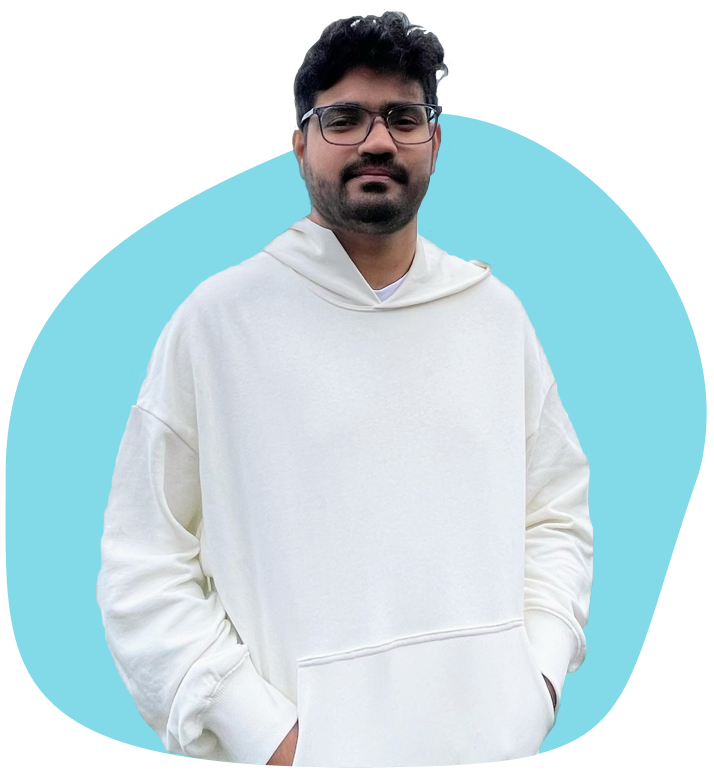
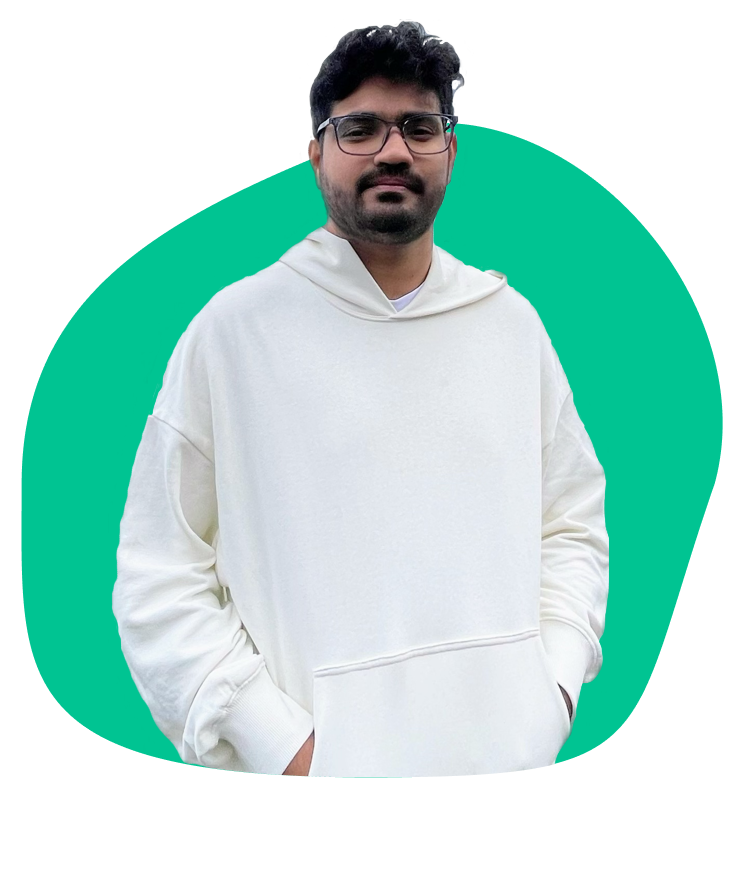
added green theme

diff --git a/app/home/About.tsx b/app/home/About.tsx
@@ -3,44 +3,38 @@ import GitHubIcon from "@/components/icons/Github";
 import LinkedInIcon from "@/components/icons/LinkedIn";
 import { MaxWidthContainer, FlexContainer } from "@/components/layouts/Containers";
 import { cn } from "@/utils/cn";
-import Image from "next/image";
 
 export function About() {
     return (
         <FlexContainer>
             <MaxWidthContainer>
-                <div className="grid md:grid-cols-2 md:grid-rows-5 grid-cols-1 gap-4 text-white h-full">
+                <div className="grid md:grid-cols-2 md:grid-rows-4 grid-cols-1 gap-4 text-white h-full">
                     <div className="row-span-4">
-                        <Box>
+                        <Box className="bg-white">
                             <img src="/images/saifil.png" alt="me" />
                         </Box>
                     </div>
-                    <div className="md:col-start-1 md;row-start-5">
-                        <Box>
-                            <div className="flex justify-center items-center h-full">
-                                Download Resume
-                            </div>
-                        </Box>
-                    </div>
-                    <div className="md:row-span-3 md:col-start-2 md:row-start-1">
-                        <Box>
-                            <p>
+                    <div className="md:row-span-2 md:col-start-2 md:row-start-1">
+                        <Box className="bg-primary-light">
+                            <p className="text-sm text-primary-dark">
                                 Hi, I am Saifil, A Front-end developer based in Toronto. I have 4 years of experience working with start-ups, building and delivering quality web products built in JavaScript and Frameworks like React and Angular. I love trying out new things and am constantly learning. Apart from my work, I love playing chess and ping pong and hold an interest in sustainable development, especially in the space of architecture.
                             </p>
                         </Box>
                     </div>
-                    <div className="md:row-span-2 md:col-start-2 md:row-start-4">
-                        <Box className="bg-orange-500">
-                            <div className='flex justify-center items-center gap-5 flex-col h-full'>
-                                <p className="font-bold text-xl">Saifil Momin</p>
-                                <a className="underline text-cyan-400" href="mailto:saifilmomin4@gmail.com">saifilmomin4@gmail.com</a>
-                                <div className='flex justify-center gap-3'>
-                                    <a target="blank" href="https://github.com/saifil4/">
-                                        <GitHubIcon size={24} color='white' />
-                                    </a>
-                                    <a href="https://www.linkedin.com/in/saifil-momin/">
-                                        <LinkedInIcon size={24} color='white' />
-                                    </a>
+                    <div className="md:row-span-2 md:col-start-2 md:row-start-3">
+                        <Box className="bg-primary-light ">
+                            <div className="bg-slate-50 rounded-lg p-3 h-full">
+                                <div className='flex justify-center items-center gap-5 flex-col h-full text-primary-dark'>
+                                    <p className="font-bold text-xl">Saifil Momin</p>
+                                    <a className="underline" href="mailto:saifilmomin4@gmail.com">saifilmomin4@gmail.com</a>
+                                    <div className='flex justify-center gap-3'>
+                                        <a target="blank" href="https://github.com/saifil4/">
+                                            <GitHubIcon size={24} color='white' />
+                                        </a>
+                                        <a href="https://www.linkedin.com/in/saifil-momin/">
+                                            <LinkedInIcon size={24} color='white' />
+                                        </a>
+                                    </div>
                                 </div>
                             </div>
                         </Box>
@@ -56,7 +50,7 @@ const Box = ({ children, className }: { children: React.ReactNode, className?: s
     return (
         <div className={
             cn(
-                "rounded-xl md:m-3 w-full h-full shadow p-6 bg-gradient-to-b from-slate-800 to-slate-900 drop-shadow-xl border border-slate-800",
+                "rounded-xl md:m-3 w-full h-full p-6",
                 className
             )
         }>
@@ -64,6 +58,5 @@ const Box = ({ children, className }: { children: React.ReactNode, className?: s
         </div>
     );
 }
-
 
 export default About;

diff --git a/components/layouts/moving-cards.tsx b/components/layouts/moving-cards.tsx
@@ -71,12 +71,7 @@ export const InfiniteMovingCards = ({
     };
     return (
         <div
-            ref={containerRef}
-            className={cn(
-                "scroller relative z-20  max-w-7xl overflow-hidden  [mask-image:linear-gradient(to_right,transparent,white_20%,white_80%,transparent)]",
-                className
-            )}
-        >
+            ref={containerRef}>
             <ul
                 ref={scrollerRef}
                 className={cn(
@@ -87,11 +82,7 @@ export const InfiniteMovingCards = ({
             >
                 {items.map((item, idx) => (
                     <li
-                        className="w-[350px] max-w-full relative rounded-2xl border border-b-0 flex-shrink-0 border-slate-700 px-8 py-6 md:w-[450px]"
-                        style={{
-                            background:
-                                "linear-gradient(180deg, var(--slate-800), var(--slate-900)",
-                        }}
+                        className="w-[350px] max-w-full relative rounded-2xl flex-shrink-0  px-8 py-6 md:w-[450px] bg-white"
                         key={item.name}
                     >
                         <blockquote>
@@ -99,15 +90,15 @@ export const InfiniteMovingCards = ({
                                 aria-hidden="true"
                                 className="user-select-none -z-1 pointer-events-none absolute -left-0.5 -top-0.5 h-[calc(100%_+_4px)] w-[calc(100%_+_4px)]"
                             ></div>
-                            <span className=" relative z-20 md:text-sm text-xs leading-[1.6] text-gray-100 font-normal">
+                            <span className=" relative z-20 md:text-sm text-xs leading-[1.6] text-black font-normal">
                                 {item.quote}
                             </span>
                             <div className="relative z-20 mt-6 flex flex-row items-center">
                                 <span className="flex flex-col gap-1">
-                                    <span className=" text-sm leading-[1.6] text-gray-400 font-normal">
+                                    <span className=" text-sm leading-[1.6] text-black font-normal">
                                         {item.name}
                                     </span>
-                                    <span className=" text-sm leading-[1.6] text-gray-400 font-normal">
+                                    <span className=" text-sm leading-[1.6] text-black font-normal">
                                         {item.title}
                                     </span>
                                 </span>

diff --git a/components/ui/Card.tsx b/components/ui/Card.tsx
@@ -10,33 +10,33 @@ interface CardProps {
 
 const Card: React.FC<CardProps> = ({ project }) => {
     return (
-        <div className='bg-slate-800 px-6 rounded-xl'>  
+        <div className='bg-white md:px-6 px-3 rounded-xl'>
             <div className='pt-6'>
-                <b className="font-semibold mb-2 text-gray-200">
+                <b className="font-semibold mb-2 text-primary-dark">
                     {project.name}
                 </b>
-                <p className="text-sm text-gray-400">
+                <p className="text-sm text-gray-500">
                     {project.description}
                 </p>
 
-                <div className='flex gap-3 mt-5'>
+                {/* <div className='flex gap-3 mt-5'>
                     <a href={project.github} target="_blank" rel="noreferrer">
-                        <button className="py-1.5 px-3 max-w-md flex justify-center items-center bg-gray-600 text-white text-center rounded-lg text-sm">
+                        <button className="py-1.5 px-3 max-w-md flex justify-center items-center bg-black text-white text-center rounded-lg text-sm">
                             <GitHubIcon />GitHub
                         </button>
                     </a>
                     <a href={project.live} target="_blank" rel="noreferrer">
-                        <button className="py-1.5 px-3 max-w-md flex justify-center items-center bg-gray-600 text-white text-center rounded-lg text-sm">
+                        <button className="py-1.5 px-3 max-w-md flex justify-center items-center bg-black text-white text-center rounded-lg text-sm">
                             <Live />
                             Live
                         </button>
                     </a>
-                </div>
+                </div> */}
             </div>
             <div className='my-2'>
                 {
                     project.stacks.map((stack, i) => (
-                        <div key={i} className="inline-block text-gray-400 text-xs font-normal mr-1 mb-1 bg-slate-950 px-2 py-1 rounded-lg">
+                        <div key={i} className="inline-block text-primary-dark text-xs font-medium mr-1 mb-1 bg-primary-light px-2 py-1 rounded-lg">
                             {stack}
                         </div>
                     ))

diff --git a/tailwind.config.js b/tailwind.config.js
@@ -1,11 +1,3 @@
-
-
-const svgToDataUri = require("mini-svg-data-uri");
-
-const {
-  default: flattenColorPalette,
-} = require("tailwindcss/lib/util/flattenColorPalette");
-
 /** @type {import('tailwindcss').Config} */
 
 module.exports = {
@@ -31,45 +23,20 @@ module.exports = {
           },
         },
       },
+      colors: {
+        'primary-lighter': '#f3fffe',
+        'primary-light': '#c9e4e2',
+        'primary-dark': '#334B4A',
+        'primary-darker': '#223938',
+        'accent-1': '#00C492',
+        'accent-2': '#7FD1AE'
+      },
       backgroundImage: {
         "theme-gradient": "linear-gradient(to top, #1e3c72 0%, #1e3c72 1%, #2a5298 100%)"
       },
     },
   },
   plugins: [
-    addVariablesForColors,
-    function ({ matchUtilities, theme }) {
-      matchUtilities(
-        {
-          "bg-grid": (value) => ({
-            backgroundImage: `url("${svgToDataUri(
-              `<svg xmlns="http://www.w3.org/2000/svg" viewBox="0 0 32 32" width="32" height="32" fill="none" stroke="${value}"><path d="M0 .5H31.5V32"/></svg>`
-            )}")`,
-          }),
-          "bg-grid-small": (value) => ({
-            backgroundImage: `url("${svgToDataUri(
-              `<svg xmlns="http://www.w3.org/2000/svg" viewBox="0 0 32 32" width="8" height="8" fill="none" stroke="${value}"><path d="M0 .5H31.5V32"/></svg>`
-            )}")`,
-          }),
-          "bg-dot": (value) => ({
-            backgroundImage: `url("${svgToDataUri(
-              `<svg xmlns="http://www.w3.org/2000/svg" viewBox="0 0 32 32" width="16" height="16" fill="none"><circle fill="${value}" id="pattern-circle" cx="10" cy="10" r="1.6257413380501518"></circle></svg>`
-            )}")`,
-          }),
-        },
-        { values: flattenColorPalette(theme("backgroundColor")), type: "color" }
-      );
-    },
+    
   ]
 };
-
-function addVariablesForColors({ addBase, theme }) {
-  let allColors = flattenColorPalette(theme("colors"));
-  let newVars = Object.fromEntries(
-    Object.entries(allColors).map(([key, val]) => [`--${key}`, val])
-  );
-
-  addBase({
-    ":root": newVars,
-  });
-}

diff --git a/app/home/Hero.tsx b/app/home/Hero.tsx
@@ -1,21 +1,29 @@
 import React from "react";
-import { FlexContainer, MaxWidthContainer } from "@/components/layouts/Containers";
+import { FlexContainer } from "@/components/layouts/Containers";
 
 export default function Hero() {
     return (
         <FlexContainer className='h-[calc(100vh/1.5)]'>
                 <div className="mx-auto w-full pt-20 md:pt-0">
-                    <h1 className="text-4xl md:text-9xl font-bold text-left uppercase">
+                    <h1 className="text-4xl md:text-9xl font-bold uppercase text-slate-900">
                         Hello, <br/>I am Saifil Momin
                     </h1>
-                    <h2 className="font-light text-base md:text-3xl py-4 text-cente text-black">
-                        I am a Software Developer and I create things for the web.
+                    <h2 className="font-light md:text-3xl py-4 text-black">
+                        I am a <Highlighted>Software Developer</Highlighted>  and I create things for the <Highlighted>web.</Highlighted>
                     </h2>
-                    <button className="rounded-full border-2 border-black px-5 py-3 font-semibold">
+                    {/* <button className="rounded-full border-2 border-black px-5 py-3 font-semibold">
                         Contact me
-                    </button>
+                    </button> */}
                 </div>
         </FlexContainer>
     );
+}
+
+const Highlighted = ({ children }: { children: React.ReactNode }) => {
+    return (
+        <span className="underline underline-offset-4 text-accent-1 font-medium">
+            {children}
+        </span>
+    )
 }
 

diff --git a/app/page.tsx b/app/page.tsx
@@ -3,19 +3,23 @@
 import React from "react";
 import Hero from './home/Hero';
 import Work from './home/Work';
-import Skills from "./home/Skills";
 import About from "./home/About";
 import Testimonials from "./home/Testimonials";
 
 
 export default function Home() {
   return (
-    <div className="md:p-12 px-4 bg-white">
-      <Hero />
-      <Work />
-      <Skills />
-      <Testimonials />
-      <About />
+    <div>
+      <div className="bg-slate-50 md:p-12 px-4">
+        <Hero />
+        <Work />
+      </div>
+      <div className="bg-primary-darker md:p-12 px-4">
+        <Testimonials />
+      </div>
+      <div className="bg-slate-50 md:p-12 px-4">
+        <About />
+      </div>
     </div>
   );
 }

diff --git a/app/home/Work.tsx b/app/home/Work.tsx
@@ -12,8 +12,8 @@ export default function Work() {
         <>
             <Title >Projects</Title>
             <br />
-            <div className="flex flex-col justify-center items-center bg-black rounded-lg">
-                <div className="grid md:grid-cols-2 grid-cols-1 gap-10 p-12">
+            <div className="flex flex-col justify-center items-center bg-primary-light rounded-lg">
+                <div className="grid md:grid-cols-2 grid-cols-1 gap-10 md:p-12 p-4">
                     {ProjectsData.map((project, index) => (
                         <Card key={index} project={project} />
                     ))}

diff --git a/app/home/Testimonials.tsx b/app/home/Testimonials.tsx
@@ -1,6 +1,5 @@
 import React from 'react';
 import { InfiniteMovingCards } from '@/components/layouts/moving-cards';
-import { OuterContainer, FlexContainer, MaxWidthContainer } from "@/components/layouts/Containers";
 import Title from '@/components/ui/Title';
 
 const testimonials = [
